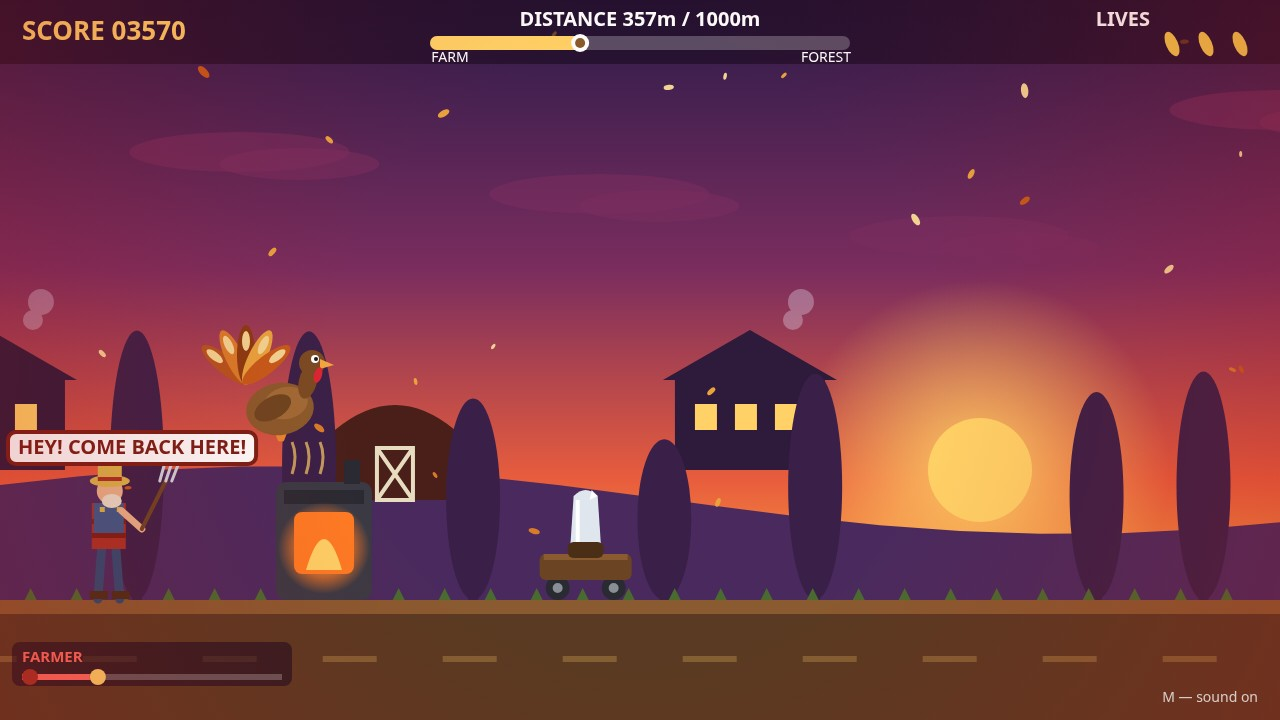
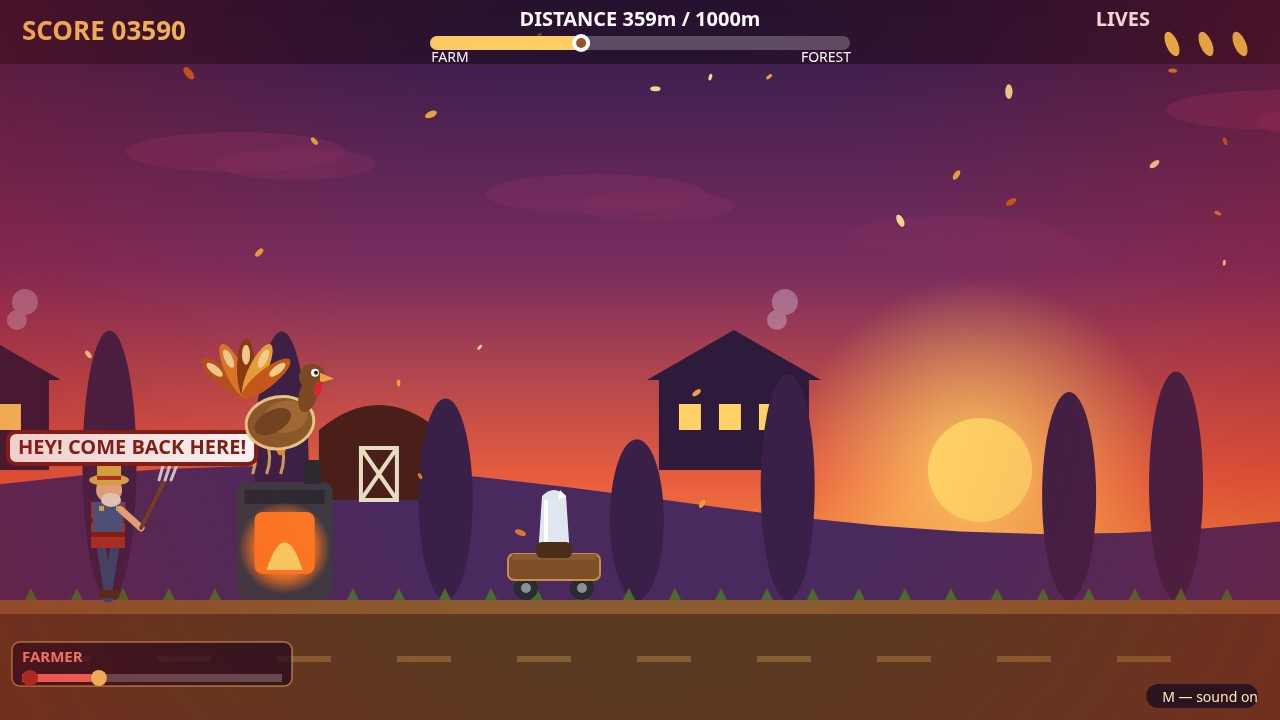
Revision v3: thumbnail readability audit fixes — green branch leaves, turkey rim, farmer clamp, HUD contrast

diff --git a/game/src/hud.js b/game/src/hud.js
@@ -70,28 +70,31 @@ function hudDraw(ctx, game) {
   const meterX = 22;
   const meterY = CFG.canvasHeight - 52;
   const meterW = 260;
-  ctx.fillStyle = 'rgba(26, 12, 32, 0.62)';
+  ctx.fillStyle = 'rgba(26, 12, 32, 0.78)';
   ctx.beginPath();
   ctx.roundRect(meterX - 10, meterY - 26, meterW + 20, 44, 8);
   ctx.fill();
-  ctx.fillStyle = '#ff6b5e';
+  ctx.strokeStyle = 'rgba(255, 209, 102, 0.55)';
+  ctx.lineWidth = 1.5;
+  ctx.stroke();
+  ctx.fillStyle = '#ff8a7a';
   ctx.font = 'bold 15px system-ui, sans-serif';
   ctx.textAlign = 'left';
   ctx.fillText('FARMER', meterX, meterY - 6);
   const gapFrac = Math.max(0, Math.min(1, game.gap / CFG.gapMax));
   const trackY = meterY + 6;
   ctx.fillStyle = 'rgba(255, 255, 255, 0.25)';
-  ctx.fillRect(meterX, trackY, meterW, 6);
+  ctx.fillRect(meterX, trackY, meterW, 8);
   ctx.fillStyle = gapFrac > 0.28 ? '#7ddb6a' : '#ff6b5e';
-  ctx.fillRect(meterX, trackY, meterW * gapFrac, 6);
+  ctx.fillRect(meterX, trackY, meterW * gapFrac, 8);
   // Farmer dot and turkey dot.
   ctx.fillStyle = '#a83226';
   ctx.beginPath();
-  ctx.arc(meterX + 8, trackY + 3, 8, 0, Math.PI * 2);
+  ctx.arc(meterX + 8, trackY + 4, 8, 0, Math.PI * 2);
   ctx.fill();
   ctx.fillStyle = '#ffd166';
   ctx.beginPath();
-  ctx.arc(meterX + 8 + meterW * gapFrac, trackY + 3, 8, 0, Math.PI * 2);
+  ctx.arc(meterX + 8 + meterW * gapFrac, trackY + 4, 8, 0, Math.PI * 2);
   ctx.fill();
 
   // Danger vignette when the farmer is close.
@@ -107,11 +110,18 @@ function hudDraw(ctx, game) {
     ctx.fillRect(0, 0, CFG.canvasWidth, CFG.canvasHeight);
   }
 
-  // Mute note.
+  // Mute note on its own dark pill, so it reads on the brown ground
+  // instead of dissolving into it.
+  const muteLabel = game.muted ? 'M — sound off' : 'M — sound on';
   ctx.textAlign = 'right';
-  ctx.fillStyle = 'rgba(255, 255, 255, 0.75)';
   ctx.font = '14px system-ui, sans-serif';
-  ctx.fillText(game.muted ? 'M — sound off' : 'M — sound on', w - 22, CFG.canvasHeight - 18);
+  const muteW = ctx.measureText(muteLabel).width;
+  ctx.fillStyle = 'rgba(26, 12, 32, 0.78)';
+  ctx.beginPath();
+  ctx.roundRect(w - 22 - muteW - 16, CFG.canvasHeight - 36, muteW + 16, 24, 12);
+  ctx.fill();
+  ctx.fillStyle = '#ffe9b8';
+  ctx.fillText(muteLabel, w - 22, CFG.canvasHeight - 18);
 }
 
 function hudDrawTitle(ctx, game) {
@@ -133,6 +143,13 @@ function hudDrawTitle(ctx, game) {
   ctx.fillText('Thanksgiving is coming. The farmer wants dinner. You are dinner.', w / 2, 292);
   ctx.fillText('Outrun him to the Forest Gate — 1000m through the farmyard and the kitchen yard.', w / 2, 322);
 
+  // Dark scrim behind the instructions, so the lines never collide with
+  // the barn door or house silhouettes drifting behind them.
+  ctx.fillStyle = 'rgba(26, 12, 32, 0.5)';
+  ctx.beginPath();
+  ctx.roundRect(w / 2 - 540, 356, 1080, 140, 12);
+  ctx.fill();
+
   // How to play, with drawn mini icons.
   ctx.font = 'bold 22px system-ui, sans-serif';
   ctx.fillStyle = '#ffd166';
@@ -146,7 +163,7 @@ function hudDrawTitle(ctx, game) {
   // Start button.
   drawButton(ctx, w / 2 - 190, 520, 380, 62, 'CLICK OR PRESS SPACE TO RUN');
   ctx.font = '16px system-ui, sans-serif';
-  ctx.fillStyle = 'rgba(255, 255, 255, 0.8)';
+  ctx.fillStyle = '#ffe9b8';
   ctx.fillText('P — pause      M — sound      R — restart', w / 2, 622);
   if (game.best > 0) {
     ctx.fillStyle = '#ffd166';

diff --git a/game/src/obstacles.js b/game/src/obstacles.js
@@ -220,11 +220,15 @@ function drawKnifeCart(ctx, it) {
   ctx.arc(it.x + 18, y - 12, 5, 0, Math.PI * 2);
   ctx.arc(it.x + it.w - 18, y - 12, 5, 0, Math.PI * 2);
   ctx.fill();
-  // Cart body.
-  ctx.fillStyle = '#6b4423';
+  // Cart body: warm brown with a light rim, so the cart reads as a solid
+  // shape against the dark ground instead of vanishing into it.
+  ctx.fillStyle = '#7d4f27';
   ctx.beginPath();
   ctx.roundRect(it.x, y - 46, it.w, 26, 6);
   ctx.fill();
+  ctx.strokeStyle = '#c98d4e';
+  ctx.lineWidth = 2;
+  ctx.stroke();
   ctx.fillStyle = '#8a5a30';
   ctx.fillRect(it.x + 4, y - 46, it.w - 8, 6);
   // The giant carving knife, blade up, glinting.
@@ -273,9 +277,10 @@ function drawBranch(ctx, it) {
   ctx.moveTo(it.x + 4, y - 6);
   ctx.lineTo(it.x + it.w - 2, y - 10);
   ctx.stroke();
-  // Leaves above the limb, orange mixed with green so the branch reads
-  // as foliage and not as the turkey's tail feathers.
-  const leafColors = ['#c65a1a', '#e8a33d', '#7a8a3d', '#d97b29', '#5a6b2f'];
+  // Leaves above the limb: bright greens only, so the branch never shares
+  // a colour with the turkey's orange tail feathers — at thumbnail size
+  // the two must stay separate shapes, not one orange blob.
+  const leafColors = ['#58c24a', '#7ed957', '#4caf50', '#8bc34a', '#66bb6a'];
   for (let i = 0; i < 8; i++) {
     const lx = it.x + 8 + i * 15;
     ctx.fillStyle = leafColors[i % leafColors.length];
@@ -306,6 +311,10 @@ function drawCorn(ctx, it, time) {
   ctx.beginPath();
   ctx.ellipse(it.x + 13, it.y + 13 + bob, 10, 13, 0.2, 0, Math.PI * 2);
   ctx.fill();
+  // Dark rim so the cob pops against dark tree silhouettes.
+  ctx.strokeStyle = '#8a5a00';
+  ctx.lineWidth = 2;
+  ctx.stroke();
   ctx.fillStyle = '#f2b705';
   ctx.fillRect(it.x + 9, it.y + 4 + bob, 3, 18);
   ctx.fillRect(it.x + 14, it.y + 4 + bob, 3, 18);

diff --git a/game/src/turkey.js b/game/src/turkey.js
@@ -119,11 +119,15 @@ function turkeyDraw(ctx, t, time) {
   ctx.lineTo(58 - legSwing, CFG.turkeyHeight);
   ctx.stroke();
 
-  // Body.
+  // Body, with a warm rim so it stays readable against the dark purple
+  // hills and trees behind it, even at thumbnail size.
   ctx.fillStyle = '#8a5a2b';
   ctx.beginPath();
   ctx.ellipse(50, h - 30, 34, 26, -0.15, 0, Math.PI * 2);
   ctx.fill();
+  ctx.strokeStyle = '#e8c98a';
+  ctx.lineWidth = 3;
+  ctx.stroke();
   ctx.fillStyle = '#a06a35';
   ctx.beginPath();
   ctx.ellipse(56, h - 36, 22, 16, -0.2, 0, Math.PI * 2);
@@ -206,11 +210,14 @@ function turkeyDrawDuck(ctx, h) {
   ctx.lineTo(62, h);
   ctx.stroke();
 
-  // Squat body, wide and flat.
+  // Squat body, wide and flat, with the same warm rim as the standing pose.
   ctx.fillStyle = '#8a5a2b';
   ctx.beginPath();
   ctx.ellipse(52, h - 16, 38, 15, -0.05, 0, Math.PI * 2);
   ctx.fill();
+  ctx.strokeStyle = '#e8c98a';
+  ctx.lineWidth = 3;
+  ctx.stroke();
   ctx.fillStyle = '#a06a35';
   ctx.beginPath();
   ctx.ellipse(58, h - 20, 24, 10, -0.05, 0, 0, Math.PI * 2);

diff --git a/game/src/farmer.js b/game/src/farmer.js
@@ -9,7 +9,10 @@ function createFarmer() {
 }
 
 function farmerDraw(ctx, turkeyX, gap, time) {
-  const x = turkeyX - gap - 70;
+  // Never let the figure be cut at the left edge: when the gap is at its
+  // widest (run start, or the escaped end screen) he would otherwise show
+  // as a stray sliver of hat and pitchfork.
+  const x = Math.max(20, turkeyX - gap - 70);
   const y = CFG.groundY;
   const legSwing = Math.sin(time * 11) * 12;
   const bob = Math.abs(Math.sin(time * 11)) * 3;
